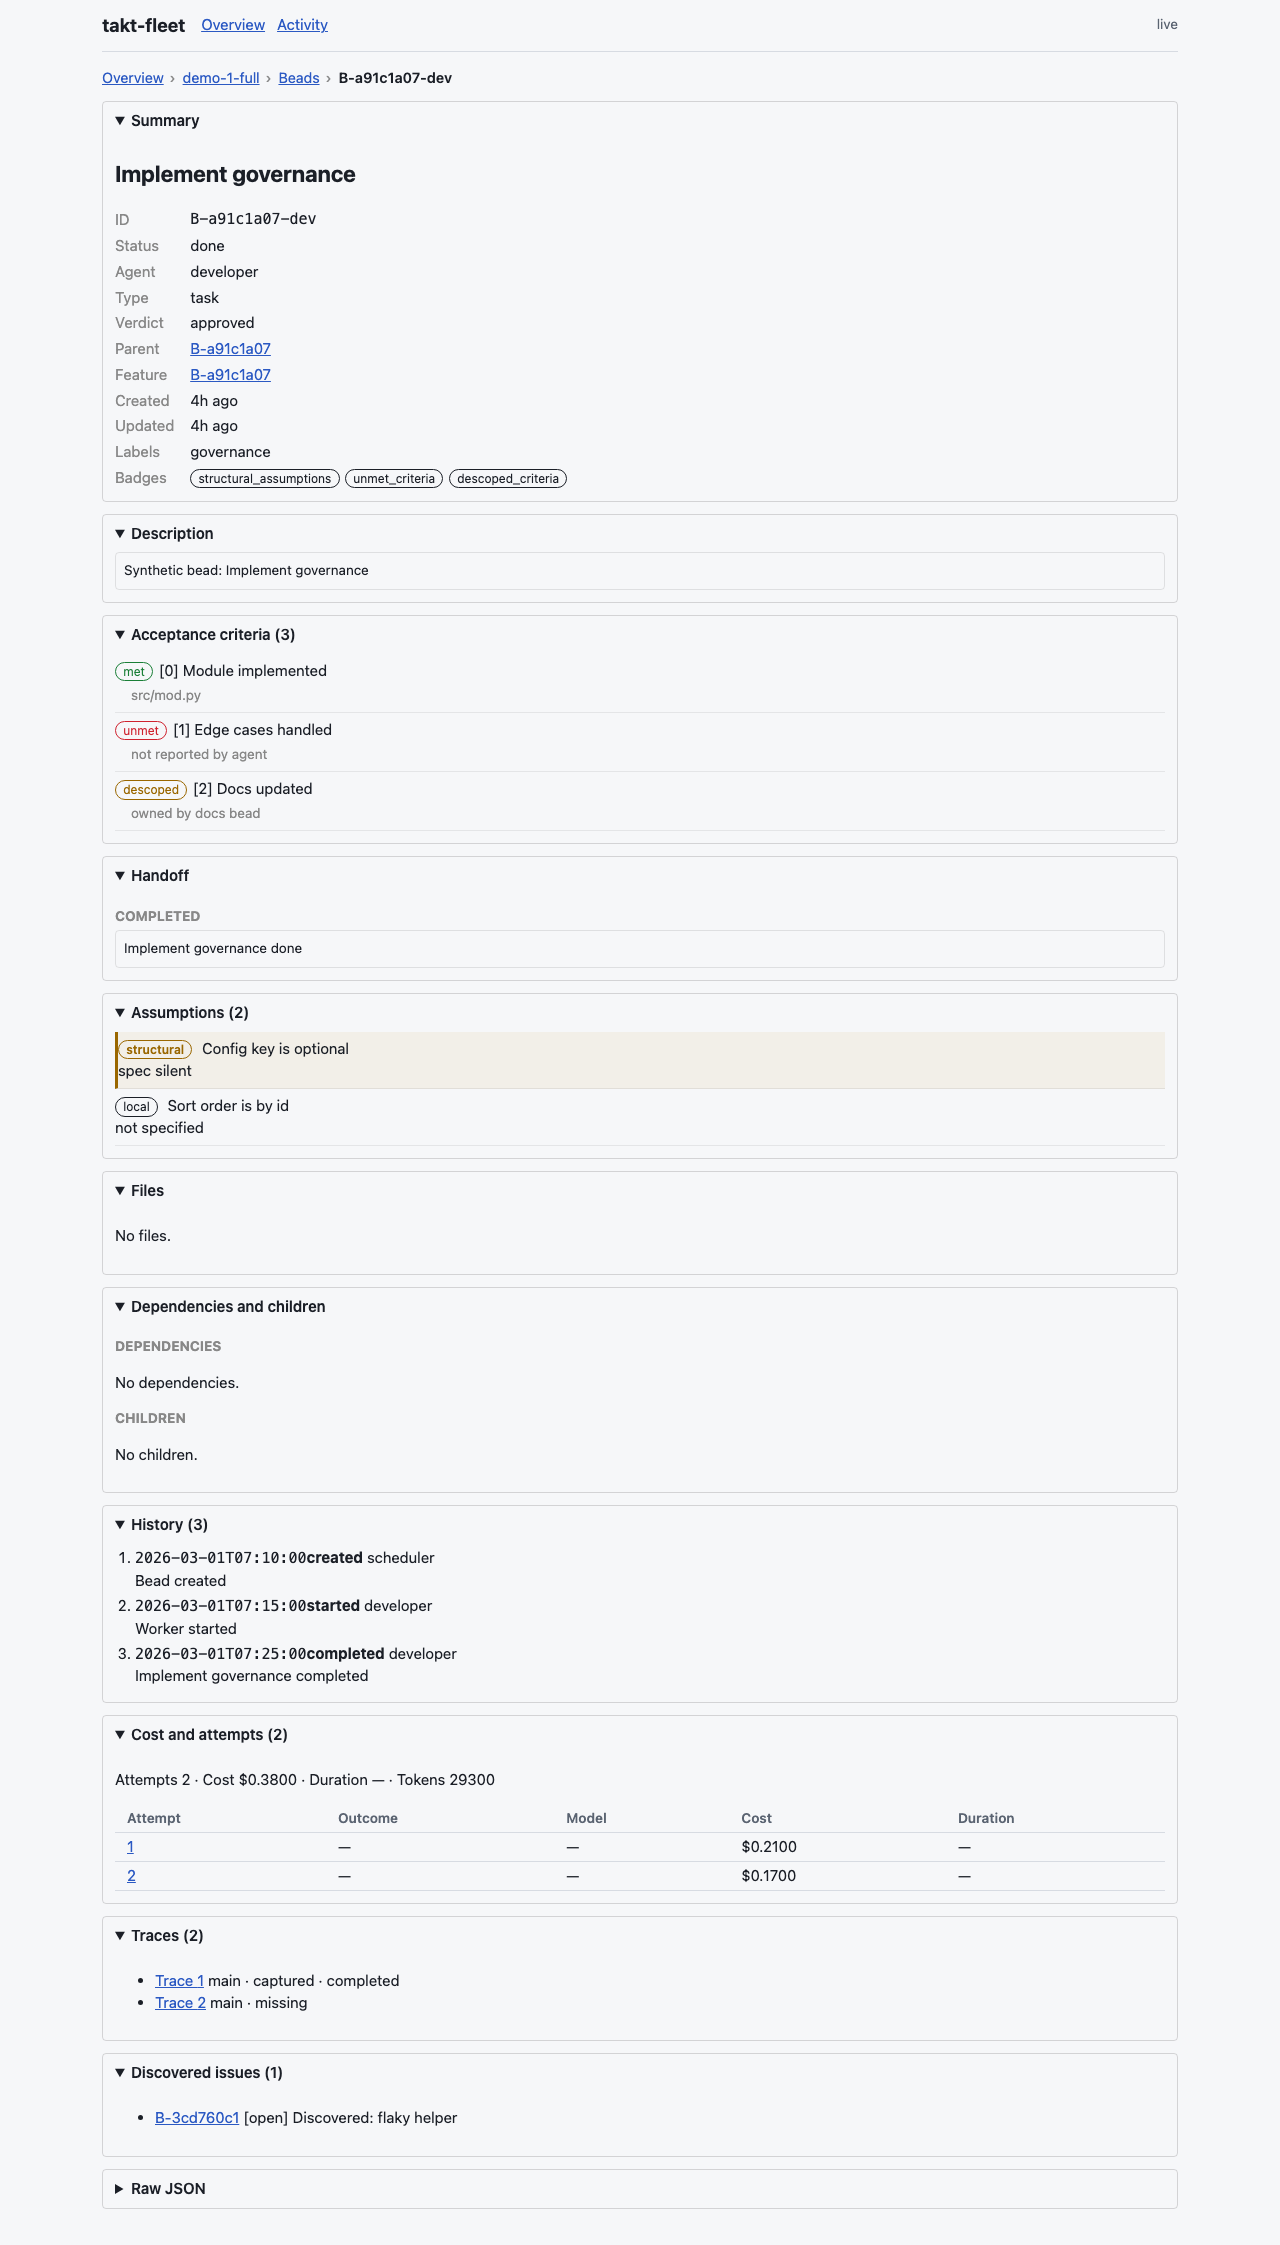
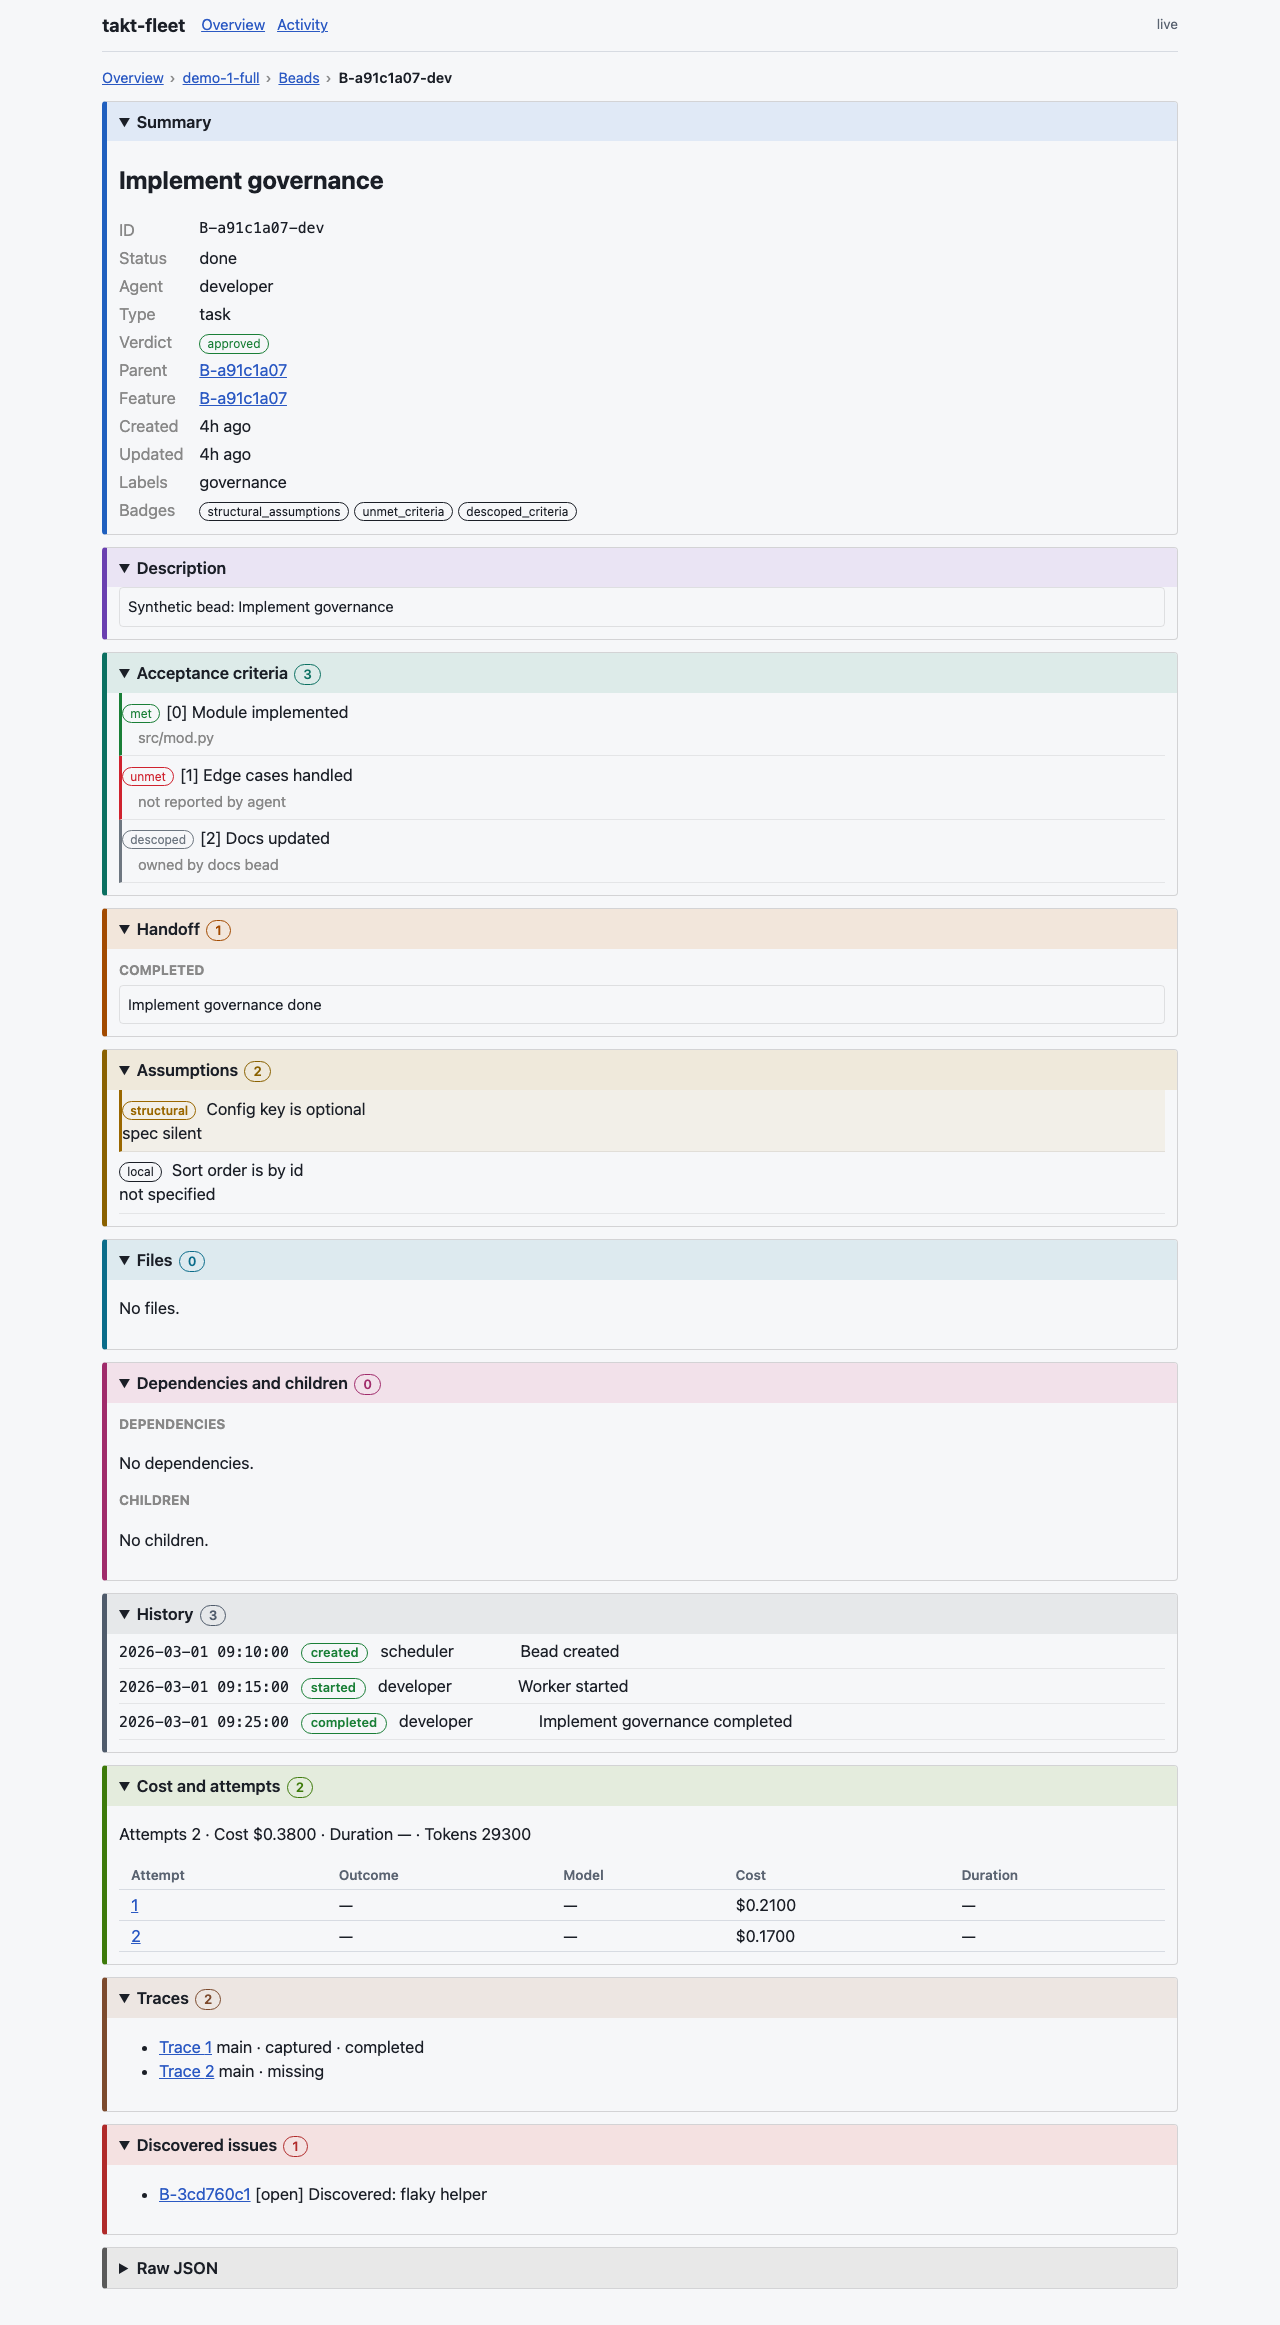
[takt] B-02229a37: Document fleet UI usability pass

Changed region(s): [[0.0625, 0.0, 0.9375, 0.9978], [0.5625, 0.8107, 0.625, 0.8419], [0.2812, 0.0312, 0.3438, 0.0624]]

diff --git a/docs/fleet.md b/docs/fleet.md
@@ -262,13 +262,13 @@ Overview (`#/`): one card per project showing health, takt version (with drift a
 
 ![Overview screen](assets/fleet-ui/overview.png)
 
-Activity: a live feed of events merged across all projects, newest first, filterable by project.
+Activity (`#/activity`): a live feed of events merged across all projects, newest first, filterable by project. The feed loads one page (25 events) and a **Load older** button fetches the next page using the `next_cursor` from `/api/events`; new events stream in at the top over SSE.
 
 ![Activity screen](assets/fleet-ui/activity.png)
 
-Project: one project's card, its recent scheduler runs and a feed filtered to that project.
+Project (`#/projects/<name>`): a "running since" line linking to the active run (when a scheduler run is active), the most recent features and beads with links to the full lists (**View all features**, **View all beads**), a footer with the last run, a link to all runs and a feed of the project's recent activity with a link to the full activity screen. Everything refetches live.
 
-![Project screen](assets/fleet-ui/project.png)
+![Project screen](assets/fleet-ui/project-page.png)
 
 **Explorer screens.** The project screen links into a per-project bead explorer. Screens are hash routes; beads, features, traces and telemetry refetch automatically when a `beads_changed` event names the project (see SSE events below).
 
@@ -284,11 +284,21 @@ Audit (`#/projects/<name>/features/<root_id>/audits/<audit_id>`): a stored audit
 
 ![Audit screen](assets/fleet-ui/audit-view.png)
 
-Beads (`#/projects/<name>/beads`): a filterable table of all beads in the project (status, agent, label, feature root and a text search over id and title).
+Beads (`#/projects/<name>/beads`): a paged, filterable table of the project's beads, newest first (status, agent, label and a text search over id and title). The first page holds 25 rows; a load-more control fetches the next page with `cursor`, and `total` shows the full match count.
 
-Bead detail (`#/projects/<name>/beads/<bead_id>`): description, acceptance criteria with `criteria_status`, handoff narrative, assumptions (structural first), file scope, dependencies, children, discovered issues, execution history, and links to the bead's traces and telemetry attempts.
+Runs (`#/projects/<name>/runs`): a paged list of the project's scheduler runs, newest first, with status, start time, duration, exit reason, workers and runner. Load more follows `next_cursor`.
 
-![Bead detail screen](assets/fleet-ui/bead-detail.png)
+![Runs list screen](assets/fleet-ui/runs-list.png)
+
+Run (`#/projects/<name>/runs/<run_id>`): one scheduler run. A header shows status, start, duration, exit reason, workers, runner and total cost (when beads report a cost); below it a cycle timeline (started/completed/blocked/deferred counts per cycle) and a table of the beads the run touched, with agent, outcome, duration, cost and a link to each bead. A running run updates live.
+
+![Run screen](assets/fleet-ui/run-page.png)
+
+Bead detail (`#/projects/<name>/beads/<bead_id>`): a set of collapsible, colour-coded sections: summary, description, acceptance criteria with `criteria_status`, handoff narrative, assumptions (structural first), files, dependencies and children, history, cost and attempts, traces, discovered issues and raw JSON. A blocked bead shows its block reason prominently. The layout follows the system light or dark colour scheme and fits a 360 px wide screen without horizontal scrolling.
+
+![Bead detail screen, light](assets/fleet-ui/bead-detail.png)
+
+![Bead detail screen, dark](assets/fleet-ui/bead-detail-dark.png)
 
 Trace (`#/projects/<name>/beads/<bead_id>/traces/<seq>`): one captured agent session as a paged event list with a tool/command summary and filters for event kind, tool name and errors only. Traces can contain code and conversation content (see the localhost rule above).
 
@@ -303,17 +313,21 @@ Telemetry (`#/projects/<name>/beads/<bead_id>/telemetry/<attempt>`): one executi
 | `/` | The single-page app (`index.html`); static assets are mounted under `/static` |
 | `/api/fleet` | `{installed_version, projects, generated_at}`; `projects` is a list of project cards |
 | `/api/projects/{name}` | One project card plus `scheduler_runs` (up to 20, newest first); 404 `{"error": ...}` for an unknown project |
-| `/api/projects/{name}/beads` | `{beads, total}`: bead rows sorted by creation time then id. Query: `status` and `agent` (repeatable, OR within each), `label` (repeatable, AND), `feature_root=<id>` (exact), `q=<text>` (case-insensitive substring of id or title), `limit=<n>` (default 500, clamped to 1..2000). `total` counts all matches before `limit`. 404 for an unknown project; an unreadable bead set yields `{beads: [], total: 0}` |
+| `/api/projects/{name}/beads` | `{beads, total, limit, next_cursor}`: bead rows, newest first by default. Query: `status` and `agent` (repeatable, OR within each), `label` (repeatable, AND), `feature_root=<id>` (exact), `q=<text>` (case-insensitive substring of id or title), `order=newest\|oldest` (default `newest`), `limit=<n>` (default 25, clamped to 1..200), `cursor=<opaque>`. `total` counts all matches before paging. `next_cursor` is `null` on the last page. 400 `invalid order: <x>` or `invalid cursor`; 404 for an unknown project; an unreadable bead set yields `{beads: [], total: 0, limit, next_cursor: null}` |
 | `/api/projects/{name}/beads/{bead_id}` | Full bead detail view model (row, description, criteria, handoff, assumptions, files, dependencies, children, history, traces, discovered issues). 404 `{"error": "unknown bead: <id>"}` for an unknown project or bead, an id with unsafe characters, or an unreadable bead (`bead unreadable`) |
 | `/api/projects/{name}/beads/{bead_id}/traces/{seq}` | `{meta, summary, events, total, offset, limit}` for one trace record. `seq` must be an integer present in the bead's trace listing. Query: `offset` (default 0), `limit` (default 200, max 1000), `kind=<event kind>`, `tool=<tool name>`, `errors_only=1`. `total` is the filtered count; `summary` always covers every event. 404 for an unknown project, bead or `seq` (`unknown trace: <bead>/<seq>`) |
 | `/api/projects/{name}/beads/{bead_id}/telemetry/{attempt}` | One telemetry attempt as written; `prompt_text` and `response_text` are cut to 256 KiB with `prompt_truncated` / `response_truncated` flags. `attempt` must be an integer matching an existing attempt file. 404 for an unknown project, bead or attempt (`unknown attempt: <n>`) |
 | `/api/projects/{name}/features` | `{features, total}`: one rollup per feature root. An unreadable bead set yields `{features: [], total: 0}`. 404 for an unknown project |
 | `/api/projects/{name}/features/{root_id}` | Feature entry, nested bead tree, merge records and the list of stored audits. 404 `unknown feature: <id>` when `root_id` is not a feature root, is unsafe, or the feature is unreadable |
 | `/api/projects/{name}/features/{root_id}/audits/{audit_id}` | A stored audit snapshot as written, plus `audit_id` and `generated_at`. `audit_id` must match an existing snapshot under `.takt/audits/<root_id>/`. 404 for an unknown project, feature or audit (`unknown audit: <id>`) |
-| `/api/events` | `{events, limit}` merged newest first; query `project=<name>` and `limit=<n>` (default 200, max 1000) |
+| `/api/projects/{name}/runs` | `{runs, total, limit, next_cursor}`: scheduler runs newest first, each row with `duration_seconds` (`null` while unfinished). Query: `limit=<n>` (default 25, clamped to 1..200), `cursor=<opaque>`. 400 `invalid cursor`; 404 for an unknown project |
+| `/api/projects/{name}/runs/{run_id}` | `{run, cycles, beads, correctives_created, total_cost_usd}` for one run: `cycles` carry start/finish times and started/completed/blocked/deferred counts; `beads` carry `bead_id`, `title`, `agent_type`, `outcome`, `duration_seconds`, `cost_usd`, `cycle_index`; `total_cost_usd` is `null` when no bead event reports a cost. 404 `unknown run: <id>` for an unknown project, a malformed `run_id` or a run not in the log |
+| `/api/events` | `{events, limit, next_cursor}` merged newest first. Query: `project=<name>`, `limit=<n>` (default 25, clamped to 1..200), `cursor=<opaque>`. 400 `invalid cursor` |
 | `/api/stream` | Server-Sent Events stream (below) |
 
-Path parameters (`bead_id`, `root_id`, `audit_id`) are validated against a safe-identifier pattern and are only matched against directory listings, never joined into file paths, so traversal-style input returns 404. Non-numeric `offset`/`limit` values fall back to their defaults.
+**Paging.** The bead, run and event lists share one scheme. Pass `limit` for the page size (values outside the range are clamped; non-numeric values fall back to the default). Each response includes `limit` (the size actually used) and `next_cursor`. To get the next page, repeat the same request with `cursor=<next_cursor>`; stop when `next_cursor` is `null`. Cursors are opaque, so clients must not parse or build them. A cursor is only valid for the list that issued it (a runs cursor sent to the beads route is a 400), and a malformed or foreign cursor returns 400 `{"error": "invalid cursor"}`. Event cursors record a per-project position in each `events.jsonl`, so events appended after the first page do not shift later pages. Bead and run cursors are offsets into the sorted list, so beads or runs created between page requests can shift a page boundary.
+
+Path parameters (`bead_id`, `root_id`, `audit_id`, `run_id`) are validated against a safe-identifier pattern and are only matched against directory listings, never joined into file paths, so traversal-style input returns 404. Non-numeric `offset`/`limit` values fall back to their defaults.
 
 A project card has `name`, `path`, `tags`, `health`, `takt_version`, `version_drift`, `scheduler` (`state`, `run_id`, `started_at`), `bead_counts`, `unreadable_beads` and `last_event_at`. An event item has `project`, `timestamp`, `event_type` and `payload`, plus derived display fields. Files are read tolerantly: a malformed project yields a degraded card, not an error response.
 
